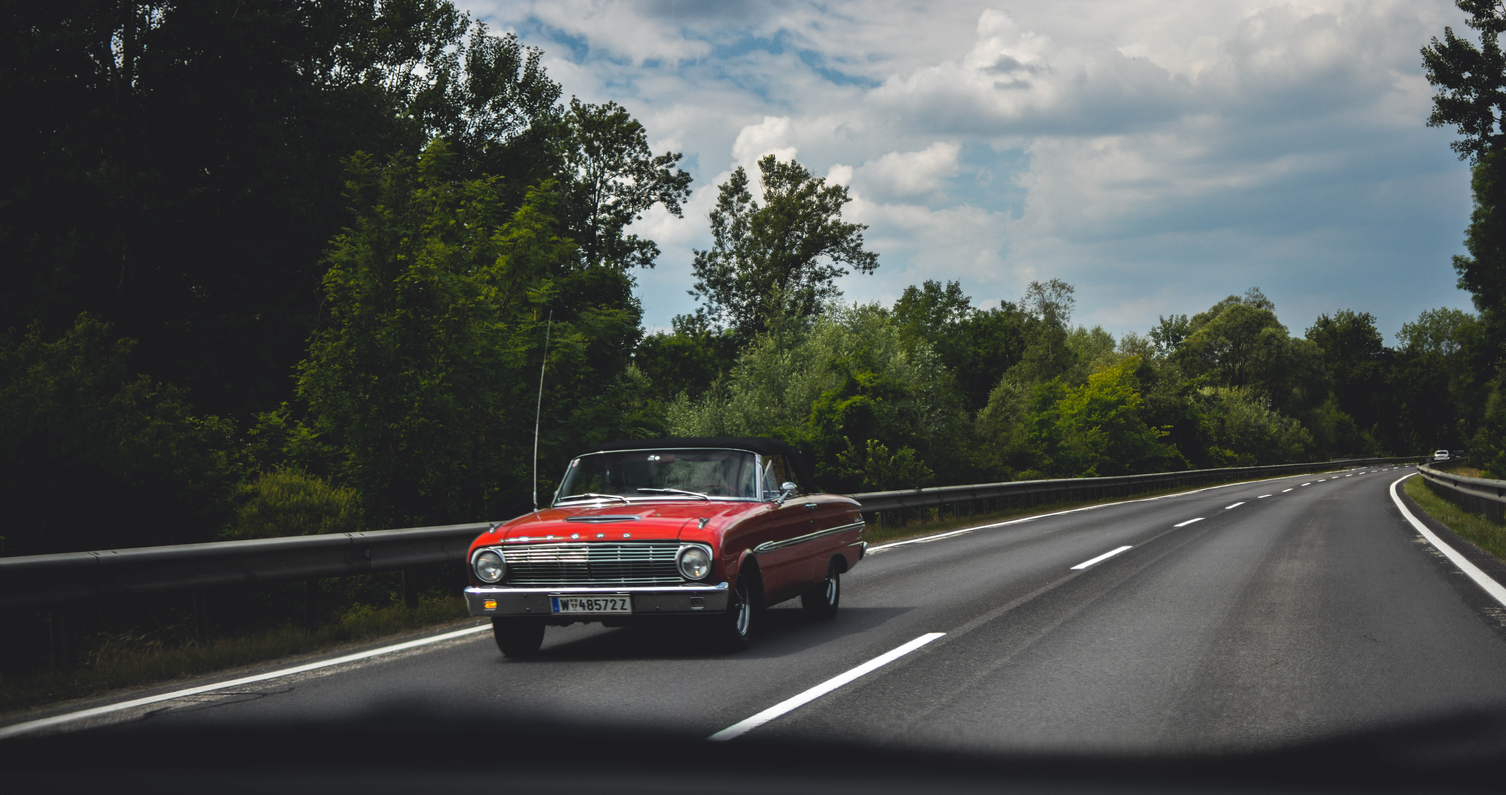
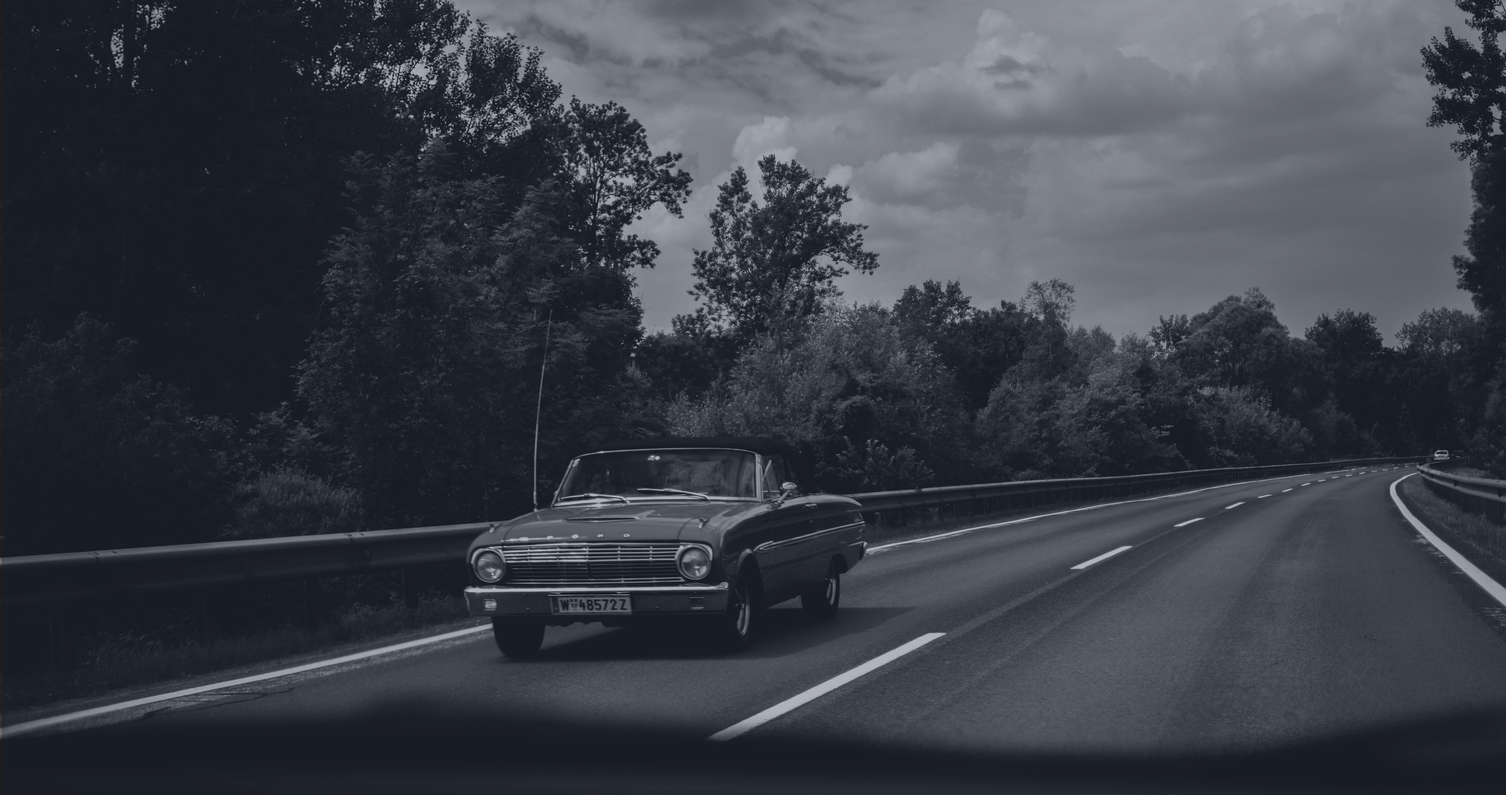
updated css, landing, login, and register page

diff --git a/public/styles/styles.css b/public/styles/styles.css
@@ -1,4 +1,33 @@
-body {
-  background:lightgray;
+body, html {
+  height: 100%;
+  font-family: 'Roboto', sans-serif;
 }
 
+.bg { 
+  background-image: url("../images/landing_background.jpg");
+  height: 100%; 
+  background-position: center;
+  background-repeat: no-repeat;
+  background-size: cover;
+}
+
+h1 {
+  font-family: 'Faster One', cursive;
+  color: #D6BA73;
+  text-align: center;
+  font-size: 160px;
+}
+
+.brand-logo {
+ font-family: 'Faster One', cursive;
+ color: #D6BA73;
+}
+
+.navbar {
+  background-color: #172239; 
+  background-image: linear-gradient(90deg, #172239, #152852); 
+}
+
+.links {
+  color: #D6BA73;
+}

diff --git a/routes/landing-routes.js b/routes/landing-routes.js
@@ -9,7 +9,7 @@ const models = require('car-models')
 module.exports = (app) => {
   app.get('/', (req, res) => {
    
-      res.render('index')
+      res.render('models')
    
     })
     app.get('/models', (req, res) => {
